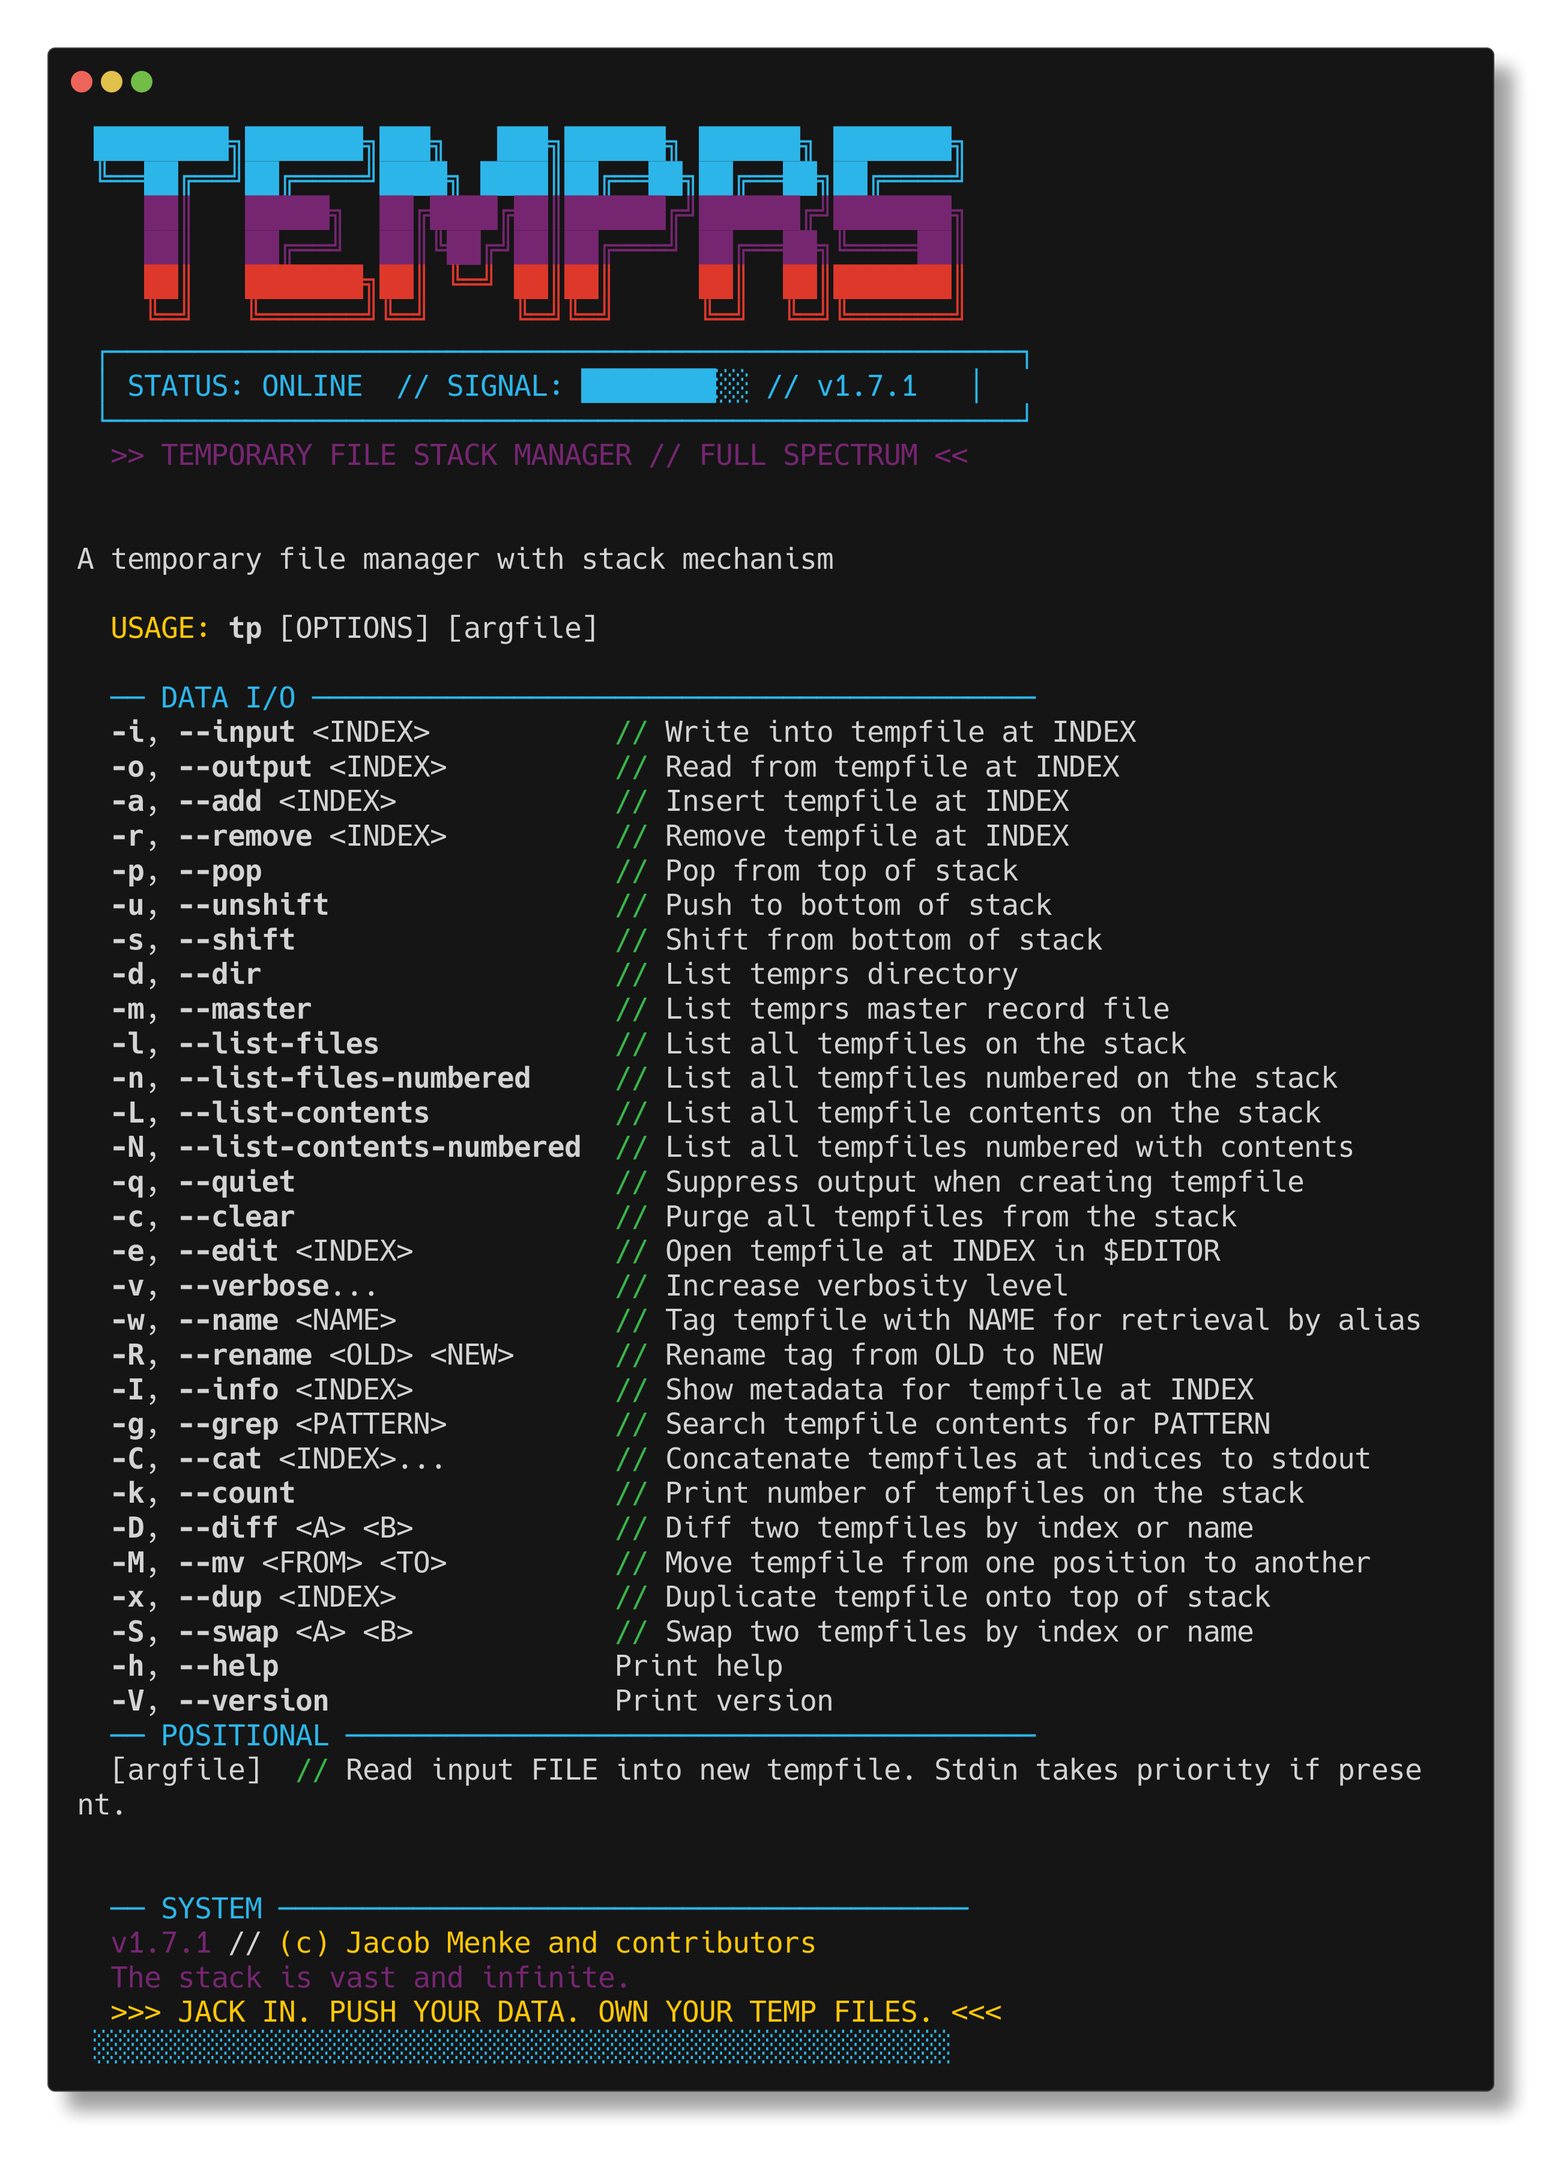
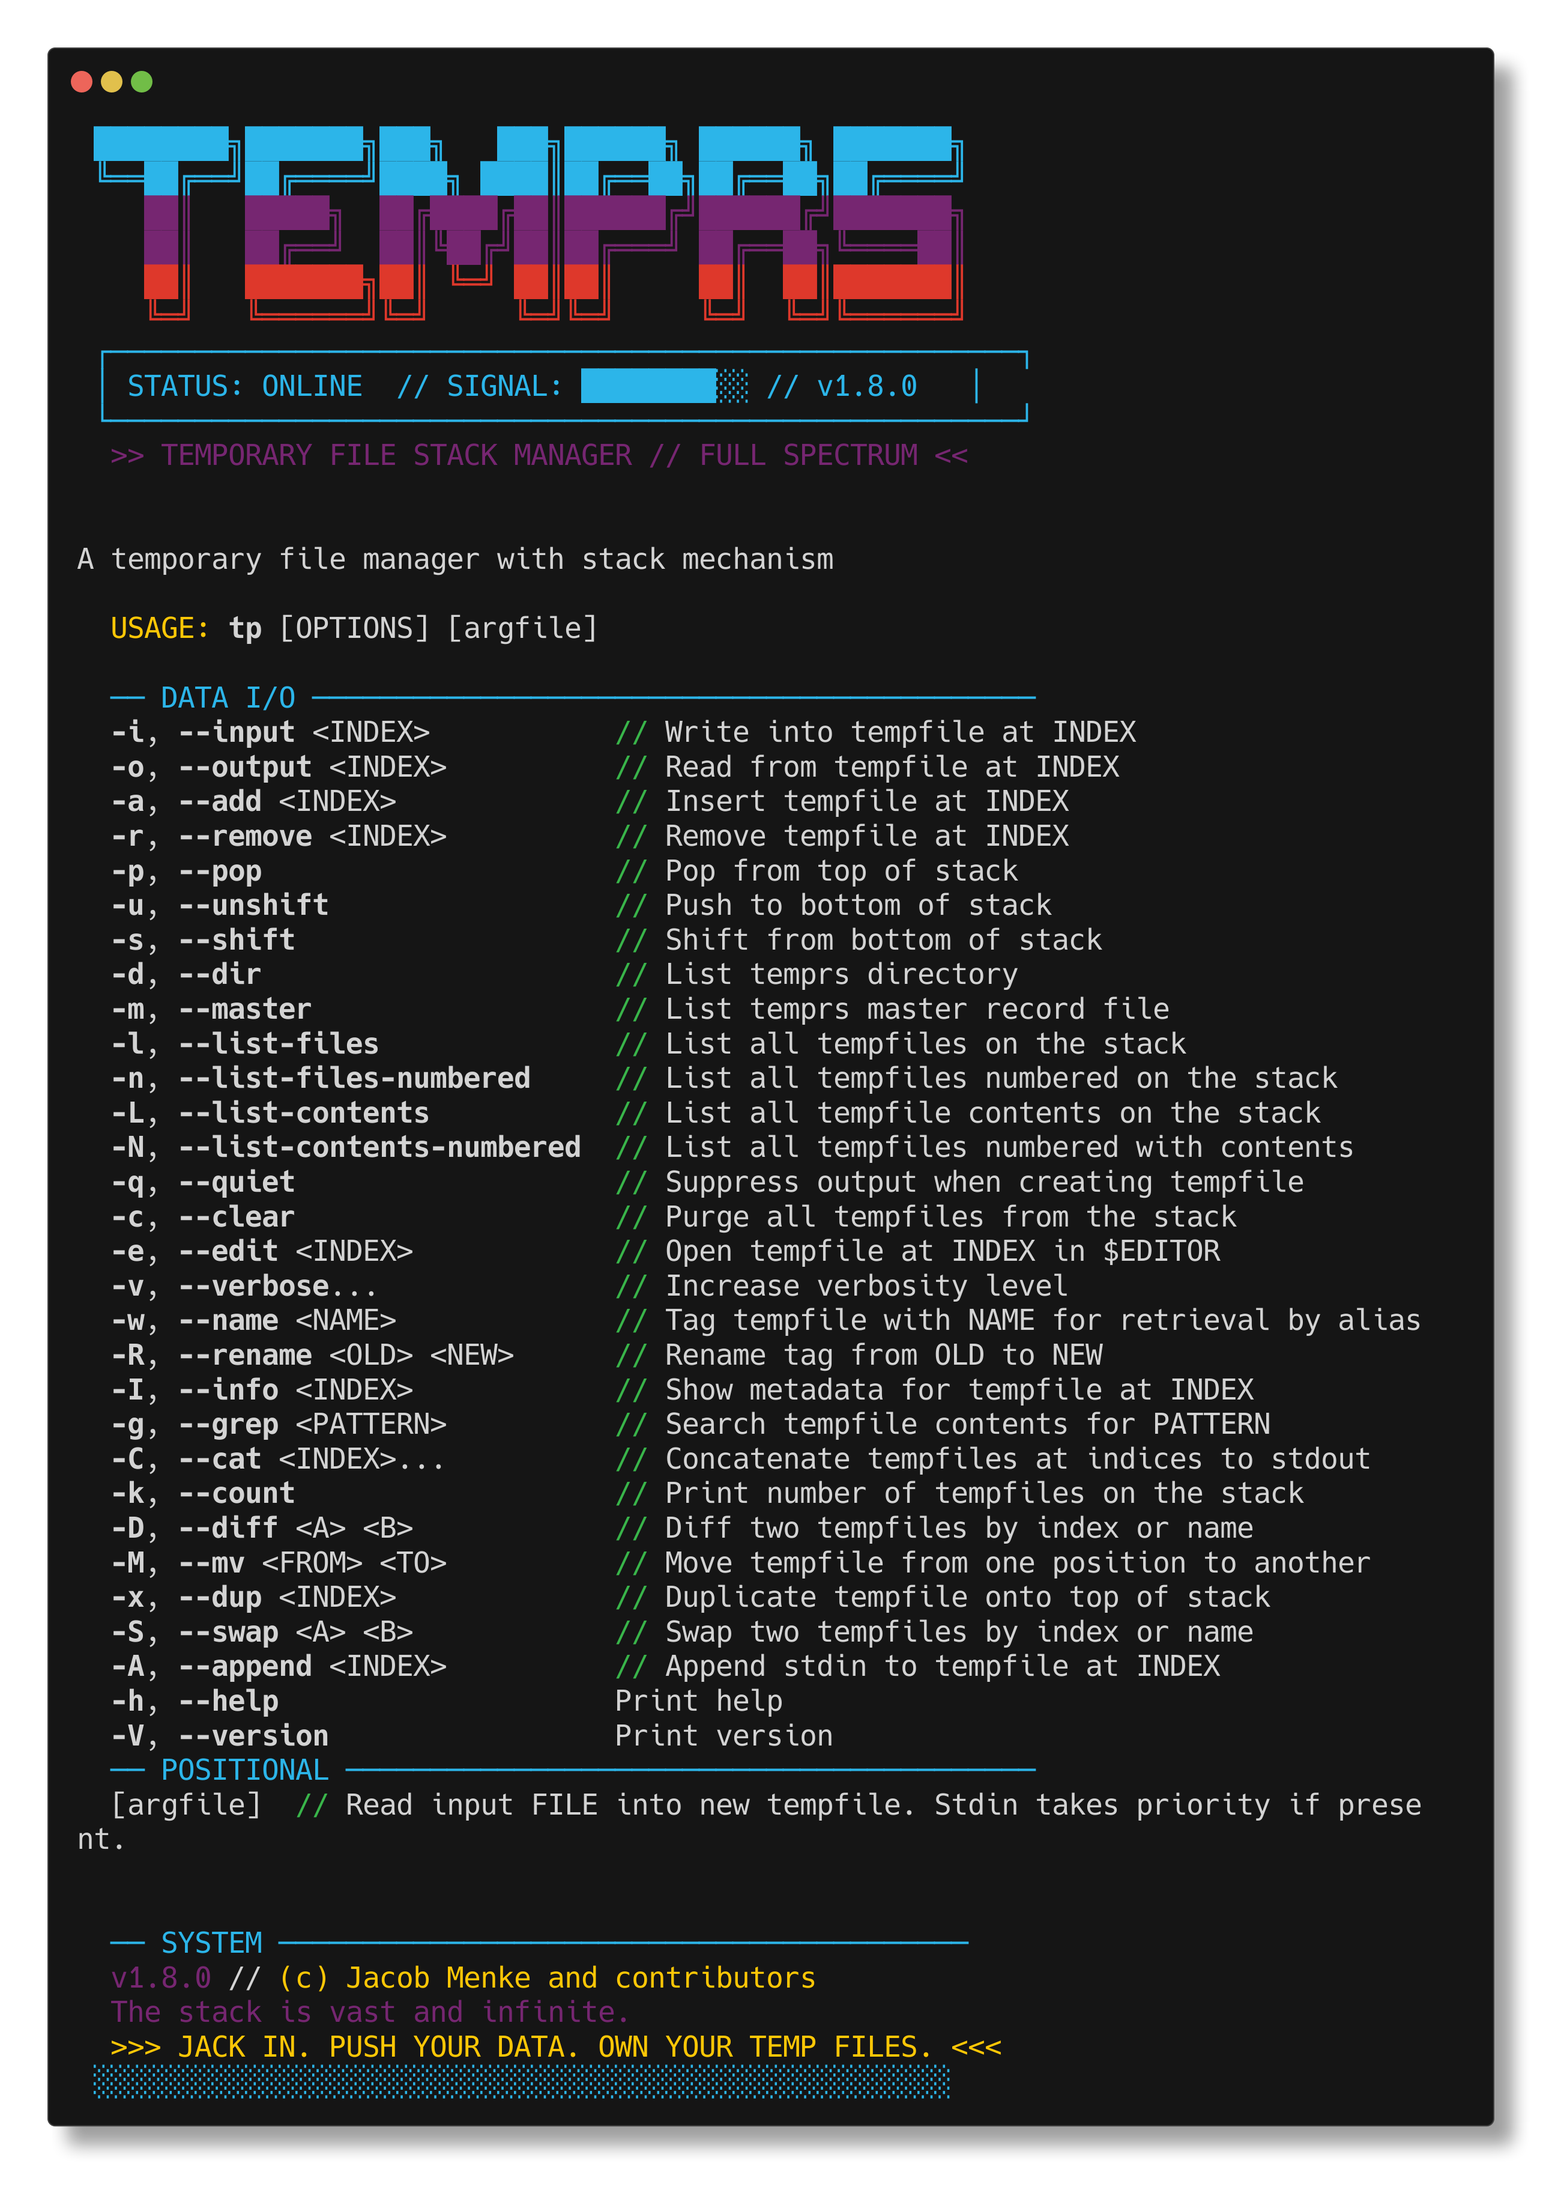
add append (-A), fix parse_opts control flow, bump version to 1.8.0

diff --git a/src/model/app.rs b/src/model/app.rs
@@ -257,6 +257,12 @@ impl TempApp {
 
     fn overwrite_idx_or_write_new_tempfile(&mut self) {
         let file_contents = String::from(self.state().holding_buffer());
+        if let Some(stk_idx) = self.state().append_temp_file().clone() {
+            if let Some(f) = self.idx_in_stack_tempfile(stk_idx) {
+                util_append_file(f, &file_contents);
+            }
+            return;
+        }
         match self.state().input_temp_file().clone() {
             Some(stk_idx) => {
                 if let Some(f) = self.idx_in_stack_tempfile(stk_idx) {
@@ -288,7 +294,7 @@ impl TempApp {
 
         let mut buffer = String::new();
         buffer.push_str(self.state().out_file_path_str().as_str());
-        if let Some(ref name) = self.state().name().clone() {
+        if let Some(name) = self.state().name() {
             buffer.push('\t');
             buffer.push_str(name);
         }
@@ -299,13 +305,47 @@ impl TempApp {
     fn parse_opts(&mut self) {
         let matches = parse_opts().get_matches();
 
+        // ── state-setting flags (order independent) ──────────
+        if matches.get_count(VERBOSE) > 0 {
+            let _ = simple_logger::init_with_level(Level::Debug);
+            self.state().set_verbose(1);
+        }
+        if matches.get_flag(SILENT) {
+            self.state().set_silent(true);
+        }
+        if matches.get_flag(UNSHIFT) {
+            self.state().set_insert_idx(Some(String::from("1")));
+        }
+        if let Some(i) = matches.get_one::<String>(ADD) {
+            self.state().set_insert_idx(Some(i.clone()));
+        }
+        if let Some(f) = matches.get_one::<String>(ARGFILE) {
+            self.state().set_arg_file(Some(PathBuf::from(f)));
+        }
+        if let Some(i) = matches.get_one::<String>(INPUT) {
+            self.state().set_input_temp_file(Some(i.clone()));
+        }
+        if let Some(i) = matches.get_one::<String>(OUTPUT) {
+            self.state().set_output_temp_file(Some(i.clone()));
+        }
+        if let Some(i) = matches.get_one::<String>(APPEND) {
+            self.state().set_append_temp_file(Some(i.clone()));
+        }
+        if let Some(n) = matches.get_one::<String>(TAG) {
+            let name = n.clone();
+            if self.state().temp_file_names().iter().any(|existing| existing.as_deref() == Some(&name)) {
+                util_terminate_error(ERR_INVALID_NAME);
+            }
+            self.state().set_name(Some(name));
+        }
+
+        // ── immediate-exit commands ──────────────────────────
         if matches.get_flag(LIST_FILES) {
             self.list_tempfiles();
         }
         if matches.get_flag(LIST_FILES_NUMBERED) {
             self.list_tempfiles_numbered();
         }
-
         if matches.get_flag(COUNT) {
             self.count_tempfiles();
         }
@@ -315,11 +355,6 @@ impl TempApp {
         if matches.get_flag(MASTER) {
             self.list_master();
         }
-        if matches.get_count(VERBOSE) > 0 {
-            let _ = simple_logger::init_with_level(Level::Debug);
-            self.state().set_verbose(1);
-        }
-
         if matches.get_flag(LIST_CONTENTS) {
             self.list_tempfiles_contents();
         }
@@ -332,18 +367,9 @@ impl TempApp {
         if matches.get_flag(SHIFT) {
             self.remove_at_idx(format!("{}", 1))
         }
-
-        if matches.get_flag(UNSHIFT) {
-            self.state().set_insert_idx(Some(String::from("1")));
-        }
-
         if matches.get_flag(POP) {
             let top = self.state().temp_file_stack().len();
             self.remove_at_idx(format!("{}", top))
-        }
-
-        if matches.get_flag(SILENT) {
-            self.state().set_silent(true);
         }
         if let Some(f) = matches.get_one::<String>(EDIT) {
             self.edit_tempfile(f.clone());
@@ -379,25 +405,6 @@ impl TempApp {
         }
         if let Some(f) = matches.get_one::<String>(REMOVE) {
             self.remove_at_idx(f.clone());
-        }
-        if let Some(i) = matches.get_one::<String>(ADD) {
-            self.state().set_insert_idx(Some(i.clone()));
-        }
-        if let Some(f) = matches.get_one::<String>(ARGFILE) {
-            self.state().set_arg_file(Some(PathBuf::from(f)));
-        }
-        if let Some(i) = matches.get_one::<String>(INPUT) {
-            self.state().set_input_temp_file(Some(i.clone()));
-        }
-        if let Some(i) = matches.get_one::<String>(OUTPUT) {
-            self.state().set_output_temp_file(Some(i.clone()));
-        }
-        if let Some(n) = matches.get_one::<String>(TAG) {
-            let name = n.clone();
-            if self.state().temp_file_names().iter().any(|existing| existing.as_deref() == Some(&name)) {
-                util_terminate_error(ERR_INVALID_NAME);
-            }
-            self.state().set_name(Some(name));
         }
     }
 

diff --git a/src/util/consts.rs b/src/util/consts.rs
@@ -42,6 +42,7 @@ pub const DIFF: &str = "diff";
 pub const MOVE: &str = "move";
 pub const DUP: &str = "dup";
 pub const SWAP: &str = "swap";
+pub const APPEND: &str = "append";
 pub const ERR_INVALID_NAME: &str = "Invalid or duplicate name";
 pub const ERR_EDITOR: &str = "Could not open editor";
 
@@ -126,7 +127,7 @@ mod tests {
         let flags = vec![
             DIRECTORY, INPUT, OUTPUT, ADD, REMOVE, POP, UNSHIFT,
             ARGFILE, MASTER, VERBOSE, LIST_FILES, LIST_FILES_NUMBERED,
-            LIST_CONTENTS, LIST_CONTENTS_NUMBERED, CLEAR, SHIFT, SILENT, EDIT, TAG, RENAME, INFO, GREP, CAT, COUNT, DIFF, MOVE, DUP, SWAP,
+            LIST_CONTENTS, LIST_CONTENTS_NUMBERED, CLEAR, SHIFT, SILENT, EDIT, TAG, RENAME, INFO, GREP, CAT, COUNT, DIFF, MOVE, DUP, SWAP, APPEND,
         ];
         let mut sorted = flags.clone();
         sorted.sort();
@@ -139,7 +140,7 @@ mod tests {
         let flags = vec![
             DIRECTORY, INPUT, OUTPUT, ADD, REMOVE, POP, UNSHIFT,
             ARGFILE, MASTER, VERBOSE, LIST_FILES, LIST_FILES_NUMBERED,
-            LIST_CONTENTS, LIST_CONTENTS_NUMBERED, CLEAR, SHIFT, SILENT, EDIT, TAG, RENAME, INFO, GREP, CAT, COUNT, DIFF, MOVE, DUP, SWAP,
+            LIST_CONTENTS, LIST_CONTENTS_NUMBERED, CLEAR, SHIFT, SILENT, EDIT, TAG, RENAME, INFO, GREP, CAT, COUNT, DIFF, MOVE, DUP, SWAP, APPEND,
         ];
         for f in flags {
             assert_eq!(f, f.to_lowercase(), "flag '{}' should be lowercase", f);
@@ -358,7 +359,7 @@ mod tests {
         let flags = vec![
             DIRECTORY, INPUT, OUTPUT, ADD, REMOVE, POP, UNSHIFT,
             ARGFILE, MASTER, VERBOSE, LIST_FILES, LIST_FILES_NUMBERED,
-            LIST_CONTENTS, LIST_CONTENTS_NUMBERED, CLEAR, SHIFT, SILENT, EDIT, TAG, RENAME, INFO, GREP, CAT, COUNT, DIFF, MOVE, DUP, SWAP,
+            LIST_CONTENTS, LIST_CONTENTS_NUMBERED, CLEAR, SHIFT, SILENT, EDIT, TAG, RENAME, INFO, GREP, CAT, COUNT, DIFF, MOVE, DUP, SWAP, APPEND,
         ];
         for f in flags {
             assert!(!f.contains(' '), "flag '{}' should not contain spaces", f);
@@ -372,7 +373,7 @@ mod tests {
         let flags = vec![
             DIRECTORY, INPUT, OUTPUT, ADD, REMOVE, POP, UNSHIFT,
             ARGFILE, MASTER, VERBOSE, LIST_FILES, LIST_FILES_NUMBERED,
-            LIST_CONTENTS, LIST_CONTENTS_NUMBERED, CLEAR, SHIFT, SILENT, EDIT, TAG, RENAME, INFO, GREP, CAT, COUNT, DIFF, MOVE, DUP, SWAP,
+            LIST_CONTENTS, LIST_CONTENTS_NUMBERED, CLEAR, SHIFT, SILENT, EDIT, TAG, RENAME, INFO, GREP, CAT, COUNT, DIFF, MOVE, DUP, SWAP, APPEND,
         ];
         for f in flags {
             assert!(!f.is_empty(), "flag constant should not be empty");
@@ -386,7 +387,7 @@ mod tests {
         let flags = vec![
             DIRECTORY, INPUT, OUTPUT, ADD, REMOVE, POP, UNSHIFT,
             ARGFILE, MASTER, VERBOSE, LIST_FILES, LIST_FILES_NUMBERED,
-            LIST_CONTENTS, LIST_CONTENTS_NUMBERED, CLEAR, SHIFT, SILENT, EDIT, TAG, RENAME, INFO, GREP, CAT, COUNT, DIFF, MOVE, DUP, SWAP,
+            LIST_CONTENTS, LIST_CONTENTS_NUMBERED, CLEAR, SHIFT, SILENT, EDIT, TAG, RENAME, INFO, GREP, CAT, COUNT, DIFF, MOVE, DUP, SWAP, APPEND,
         ];
         for f in flags {
             assert!(f.is_ascii(), "flag '{}' should be ASCII", f);
@@ -400,9 +401,9 @@ mod tests {
         let flags = vec![
             DIRECTORY, INPUT, OUTPUT, ADD, REMOVE, POP, UNSHIFT,
             ARGFILE, MASTER, VERBOSE, LIST_FILES, LIST_FILES_NUMBERED,
-            LIST_CONTENTS, LIST_CONTENTS_NUMBERED, CLEAR, SHIFT, SILENT, EDIT, TAG, RENAME, INFO, GREP, CAT, COUNT, DIFF, MOVE, DUP, SWAP,
+            LIST_CONTENTS, LIST_CONTENTS_NUMBERED, CLEAR, SHIFT, SILENT, EDIT, TAG, RENAME, INFO, GREP, CAT, COUNT, DIFF, MOVE, DUP, SWAP, APPEND,
         ];
-        assert_eq!(flags.len(), 28);
+        assert_eq!(flags.len(), 29);
     }
 
     // ── naming conventions ──────────────────────────────

diff --git a/tests/integration.rs b/tests/integration.rs
@@ -89,7 +89,7 @@ fn help_shows_all_flags() {
         "--input", "--output", "--add", "--remove", "--pop", "--unshift",
         "--shift", "--dir", "--master", "--list-files", "--list-files-numbered",
         "--list-contents", "--list-contents-numbered", "--quiet", "--clear",
-        "--verbose", "--edit", "--name", "--rename", "--info", "--grep", "--cat", "--count", "--diff", "--mv", "--dup", "--swap",
+        "--verbose", "--edit", "--name", "--rename", "--info", "--grep", "--cat", "--count", "--diff", "--mv", "--dup", "--swap", "--append",
     ] {
         assert!(text.contains(flag), "missing flag: {}", flag);
     }
@@ -2330,4 +2330,62 @@ fn swap_mixed_name_and_index() {
     run_tp(&dir, &["-S", "named", "2"]);
     assert_eq!(stdout(&run_tp(&dir, &["-o", "1"])), "UU");
     assert_eq!(stdout(&run_tp(&dir, &["-o", "2"])), "NN");
+}
+
+// ── Append ─────────────────────────────────────────────
+
+#[test]
+fn append_to_existing() {
+    let dir = setup_clean_env();
+    run_tp_stdin(&dir, &[], "hello");
+    run_tp_stdin(&dir, &["-A", "1"], " world");
+    let out = run_tp(&dir, &["-o", "1"]);
+    assert_eq!(stdout(&out), "hello world");
+}
+
+#[test]
+fn append_by_name() {
+    let dir = setup_clean_env();
+    run_tp_stdin(&dir, &["-w", "log"], "line1\n");
+    run_tp_stdin(&dir, &["-A", "log"], "line2\n");
+    let out = run_tp(&dir, &["-o", "log"]);
+    assert_eq!(stdout(&out), "line1\nline2\n");
+}
+
+#[test]
+fn append_does_not_create_new_file() {
+    let dir = setup_clean_env();
+    run_tp_stdin(&dir, &[], "base");
+    run_tp_stdin(&dir, &["-A", "1"], "extra");
+    let count = run_tp(&dir, &["-k"]);
+    assert_eq!(stdout(&count).trim(), "1");
+}
+
+#[test]
+fn append_multiple_times() {
+    let dir = setup_clean_env();
+    run_tp_stdin(&dir, &[], "a");
+    run_tp_stdin(&dir, &["-A", "1"], "b");
+    run_tp_stdin(&dir, &["-A", "1"], "c");
+    let out = run_tp(&dir, &["-o", "1"]);
+    assert_eq!(stdout(&out), "abc");
+}
+
+#[test]
+fn append_invalid_index_fails() {
+    let dir = setup_clean_env();
+    run_tp_stdin(&dir, &[], "data");
+    let out = run_tp_stdin(&dir, &["-A", "99"], "more");
+    assert!(!out.status.success());
+}
+
+#[test]
+fn append_preserves_other_files() {
+    let dir = setup_clean_env();
+    run_tp_stdin(&dir, &[], "first");
+    tick();
+    run_tp_stdin(&dir, &[], "second");
+    run_tp_stdin(&dir, &["-A", "1"], "+extra");
+    assert_eq!(stdout(&run_tp(&dir, &["-o", "1"])), "first+extra");
+    assert_eq!(stdout(&run_tp(&dir, &["-o", "2"])), "second");
 }

diff --git a/src/model/state.rs b/src/model/state.rs
@@ -14,6 +14,7 @@ pub struct TempState {
     holding_buffer: String,
     input_temp_file: Option<String>,
     output_temp_file: Option<String>,
+    append_temp_file: Option<String>,
     name: Option<String>,
     silent: bool,
     verbose: u32,
@@ -63,6 +64,10 @@ impl TempState {
 
     pub fn set_output_temp_file(&mut self, output_temp_file: Option<String>) {
         self.output_temp_file = output_temp_file;
+    }
+
+    pub fn set_append_temp_file(&mut self, append_temp_file: Option<String>) {
+        self.append_temp_file = append_temp_file;
     }
 
     pub fn set_silent(&mut self, silent: bool) {
@@ -124,6 +129,10 @@ impl TempState {
         &self.output_temp_file
     }
 
+    pub fn append_temp_file(&self) -> &Option<String> {
+        &self.append_temp_file
+    }
+
     #[cfg(test)]
     pub fn silent(&self) -> bool {
         self.silent
@@ -165,6 +174,7 @@ impl TempState {
             holding_buffer: String::new(),
             input_temp_file: None,
             output_temp_file: None,
+            append_temp_file: None,
             name: None,
             silent: false,
             verbose: 0,

diff --git a/src/model/opts.rs b/src/model/opts.rs
@@ -195,6 +195,12 @@ pub fn parse_opts() -> Command {
             .num_args(2)
             .allow_hyphen_values(true)
             .help("\x1b[32m//\x1b[0m Swap two tempfiles by index or name"))
+        .arg(Arg::new(APPEND)
+            .short('A')
+            .long("append")
+            .value_name("INDEX")
+            .allow_hyphen_values(true)
+            .help("\x1b[32m//\x1b[0m Append stdin to tempfile at INDEX"))
 }
 
 #[cfg(test)]
@@ -600,7 +606,7 @@ mod tests {
         let custom_count = app.get_arguments()
             .filter(|a| a.get_id() != "help" && a.get_id() != "version")
             .count();
-        assert_eq!(custom_count, 28);
+        assert_eq!(custom_count, 29);
     }
 
     // ── flag mutual independence ────────────────────────

diff --git a/README.md b/README.md
@@ -137,6 +137,16 @@ CMD | tp -vi 1 | CMD
 CMD | tp -vi 2
 ```
 
+#### APPENDING DATA // ACCUMULATE
+
+```sh
+# append stdin to tempfile at INDEX
+CMD | tp -A INDEX
+
+# append by name
+CMD | tp -A mydata
+```
+
 #### ENUMERATING STACK CONTENTS // LISTING
 
 ```sh
